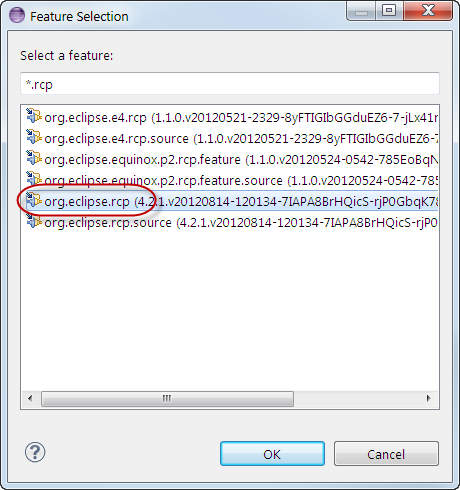
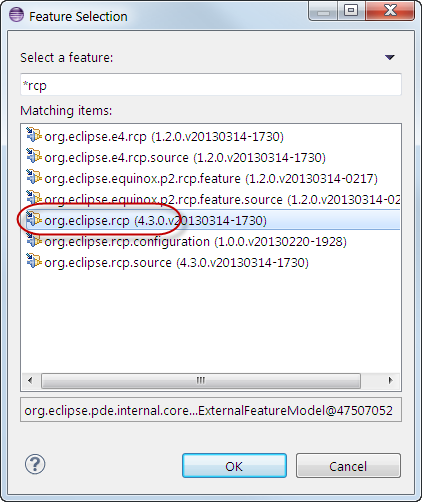
Updated screen shots in ex 5

Changed region(s): [[0.0, 0.0, 1.0, 1.0]]

diff --git a/exercises/Exercise_05_Add_Product/tychodemo.parent/README.html b/exercises/Exercise_05_Add_Product/tychodemo.parent/README.html
@@ -17,7 +17,7 @@
 
 	<h3>Recovery option</h3>
 
-	This section is optional and only needed if you want to catch up from exercise 4 or reset your workspace.
+	This section is optional and only needed if you want to recover from a problem in exercise 4.
 	<ul>
 		<li>Select <tt>File > Switch Workspace > Other...</tt> and choose the folder <a href="../">Exercise_05_Add_Product</a></li>
 		<li>Import all five projects from this folder into the workspace using <tt>File > Import > Existing Maven Projects</tt></li>
@@ -73,6 +73,7 @@
 					Click on <tt>Add Required</tt>; this also adds two EMF features and an e4 feature
 					<br /><img src="../resources/feature_add_required.png" />
 				</li>
+				<li>Save the file</li>
 				<li>Now the product configuration can be launched: On the <tt>Overview</tt> tab, click on <tt>Launch an Eclipse application</tt> in the section <tt>Testing</tt>.</li>
 			</ul>
 		</li>
@@ -133,6 +134,13 @@
 		</li>
 	</ol>
 	<br />
+
+	<hr/>
+	<p><strong>Congratulations</strong>: You have now completed the Tycho tutorial. You now may want to
+	<ul>
+		<li>Read more about <a href="http://www.eclipse.org/tycho/">Tycho</a> in the <a href="http://wiki.eclipse.org/Category:Tycho">Tycho documentation</a></li>
+	</ul>
+	</p>
 
 	<p align="center">
 		<a href="../../Exercise_04_Add_P2_Repository/tychodemo.parent/README.html">&lt;Previous Exercise</a>
